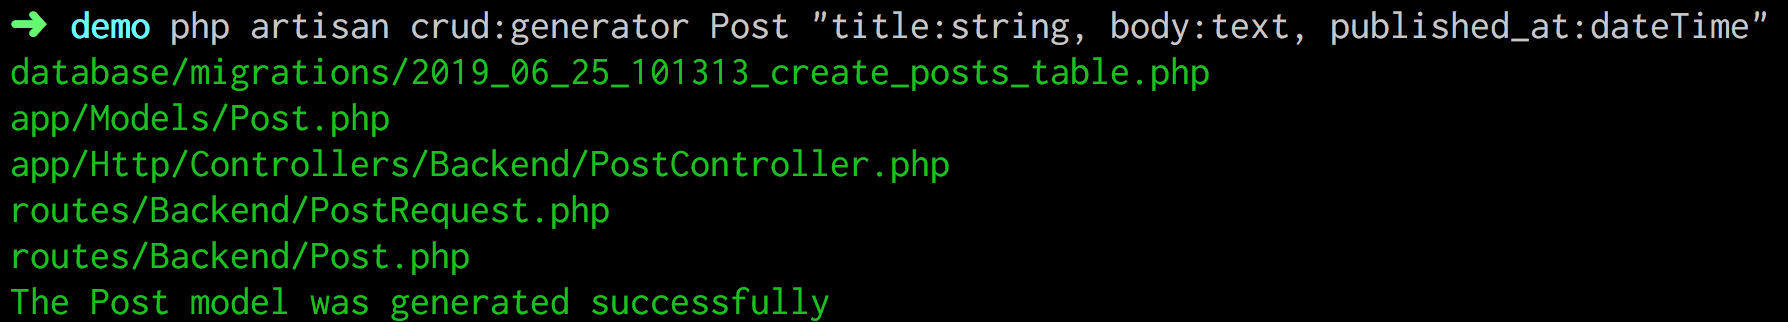
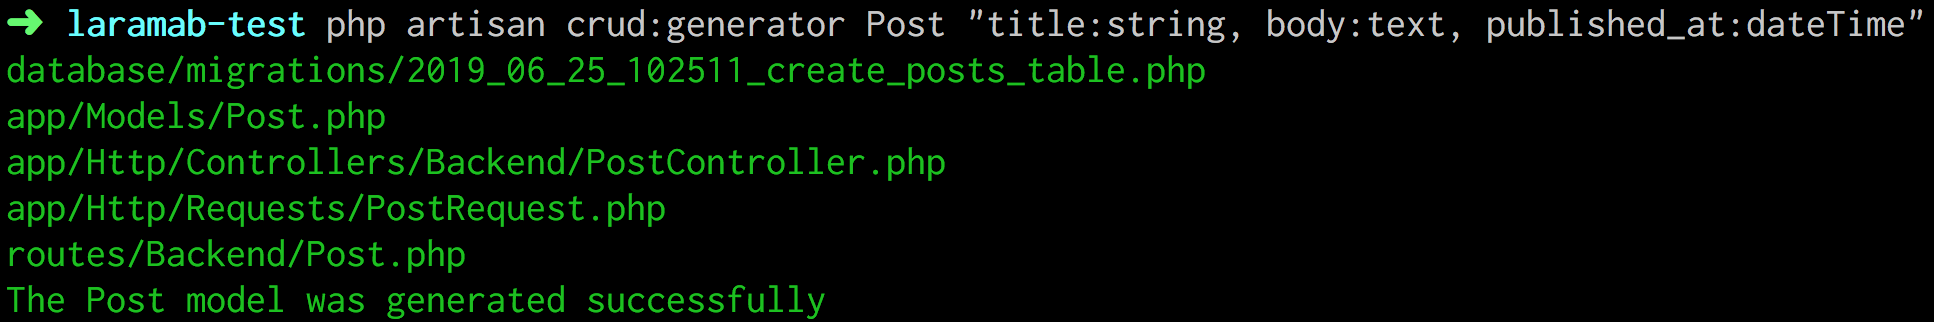
update screenshot.

diff --git a/src/CrudGeneratorCommand.php b/src/CrudGeneratorCommand.php
@@ -198,6 +198,6 @@ class CrudGeneratorCommand extends Command
         );
 
         file_put_contents(base_path(config('crud-generator.path_request') . "/{$name}Request.php"), $requestTemplate);
-        $this->info(config('crud-generator.path_route') . "/{$name}Request.php");
+        $this->info(config('crud-generator.path_request') . "/{$name}Request.php");
     }
 }
